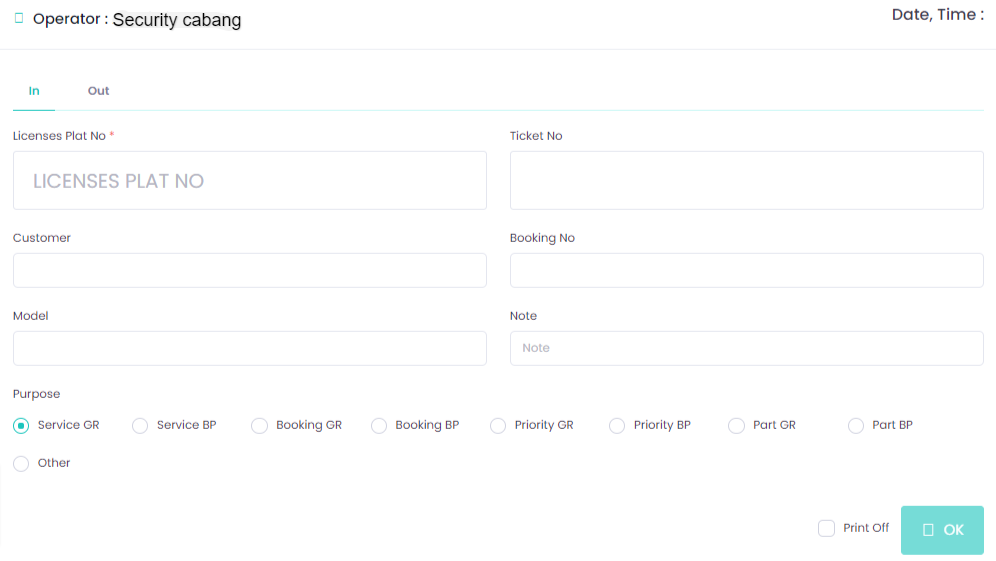
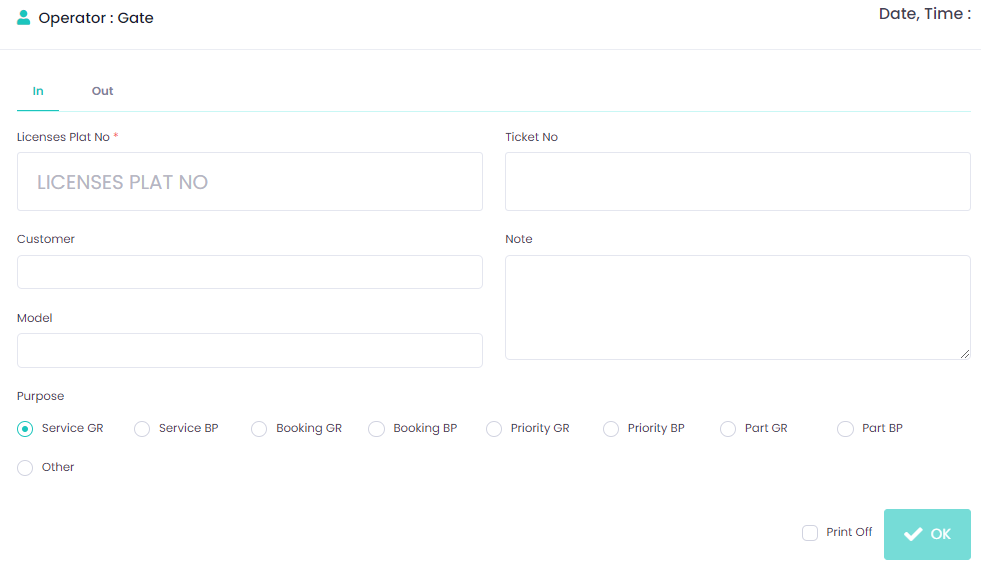
first-commit

diff --git a/docs/general-repair/security-gate/security-gate.md b/docs/general-repair/security-gate/security-gate.md
@@ -5,7 +5,7 @@ title: Security Gate
 tags: [security, nomor antrian, antrian customer]
 ---
 
-### Security Gate
+### **Security Gate**
 
 > Customer yang telah booking atau pun walk-in ke cabang untuk service akan di input nomor plat kendaraannya di bagian security. lalu data nomor kendaraan yang telah dimasukkan akan secara otomatis masuk ke dalam monitor sistem antrian di ruangan penerimaan service.
 
@@ -23,8 +23,84 @@ tags: [security, nomor antrian, antrian customer]
 | Note | Diisi dengan catatan customer jika diperlukan |
 | Purpose | Berisi pilihan tujuan kedatangan customer ke bengkel. Jika customer sudah booking service sebelumnya, pilihan Booking akan terisi otomatis. |
 | Print Off | Aktifkan opsi ini jika printer sedang mengalami masalah, tiket dapat dicetak kembali di bagian SA. |
-| OK | Tekan tombol ini jika tiket telah dicetak dan customer siap masuk ke area service |
+| ![Docusaurus Plushie](/img/general-repair/security-gate/ok.png) | Tekan tombol ini jika tiket telah dicetak dan customer siap masuk ke area service |
 
-Setelah security selesai menginput data plat nomor kendaraan, maka otomatis diarahkan untuk mencetat tiket antrian :
+untuk memulai input data unit kendaraan yang datang pada inputan **License Plate No** masukkan nomor plat kendaraan lalu tekan *Enter*, lihat gambar di bawah ini.
+
+![Docusaurus Plushie](/img/general-repair/security-gate/3.png)
+
+jika unit kendaraan yang datang sebelumnya belum pernah servis maka inputan **Customer** dan **Model** tidak terisi, sedangkan jika sudah pernah datang servis maka otomatis inputan tersebut akan terisi dan jangan lupa pilihan purpose nya, perhatikan gambar di bawah ini.
+
+![Docusaurus Plushie](/img/general-repair/security-gate/4.png)
+
+| Nama Purpose | Deskripsi |
+|--------|--------|
+| Service GR | Tujuan servis untuk General Repair |
+| Service BP | Tujuan servis untuk Body Painting |
+| Booking GR | Kustomer telah booking melalui MRA untuk General Repair |
+| Booking BP | Kustomer telah booking melalui MRA untuk Body Painting |
+| Priority GR | Khusus kustomer prioritas atau tamu penting tujuan General Repair	|
+| Priority BP | Khusus kustomer prioritas atau tamu penting tujuan Body Painting|
+| Part GR | Kustomer hanya datang beli spareparts untuk General Repair	|
+| Part BP |	Kustomer hanya datang beli spareparts untuk Body Painting |
+| other	| Kustomer dengan tujuan lain |
+
+Setelah security selesai menginput data plat nomor kendaraan, klik button ![Docusaurus Plushie](/img/general-repair/security-gate/ok.png) pada bagian kanan bawah, maka otomatis diarahkan untuk mencetat tiket antrian :
 
 ![Docusaurus Plushie](/img/general-repair/security-gate/2.png)
+
+### **Reception & Dashboard Queue**.
+
+Aplikasi Dashboard Antrian sebaiknya dipasang dalam sebuah PC dengan layar monitor berukuran minimum 32” dan disarankan untuk menggunakan pengeras suara jika ruang tunggu service berukuran luas atau dengan tingkat kebisingan sedang. Aplikasi ini menampilkan daftar antrian aktif yang dapat dilihat langsung oleh Customer dan menghasilkan suara panggilan ketika Service Advisor melakukan aksi ![Docusaurus Plushie](/img/general-repair/reception/next.png). 
+
+Berikut adalah tampilan Dashboard Antrian:
+
+![Docusaurus Plushie](/img/general-repair/reception/1.png)
+
+Aplikasi web DMS Service yang digunakan Service Advisor untuk memanggil antrian yang sudah teregistrasi dalam sistem, berikut adalah tampilan aplikasi web DMS Service untuk Service Advisor :
+
+![Docusaurus Plushie](/img/general-repair/reception/2.png)
+
+Berikut adalah penjelasan kolom – kolom pada list reception queue :
+
+
+| Nama Kolom | Deskripsi |
+|--------|--------|
+| Queue No | No Tiket/Antrian yang muncul pada print out tiket masuk |
+| Arrival Time | Tanggal dan Jam Customer masuk ke bengkel |
+| Vehicle Unit | Kendaraan Customer yang terdaftar dalam sistem. |
+| New Customer | Nomor Plat kendaraan untuk Customer yang belum ter-register dalam sistem, atau Customer yang nomor kendaraannya berubah dari data yang terakhir kali tercatat dalam sistem |
+| In Call | Nomor antrian yang sementara di panggil. |
+| Status | Status antrian kendaraan. |
+| Service Advisor | SA yang memanggil antrian/Customer. |
+| Branch | Cabang bengkel aktif. |
+| Visit Reason | Tujuan kedatangan Customer |
+
+Berikut adalah fungsi button action yang ada pada bagian atas tampilan :
+
+| Nama Action | Deskripsi |
+|--------|--------|
+| ![Docusaurus Plushie](/img/general-repair/reception/next.png) | Panggil antrian berikutnya. Sistem akan mencari Customer dalam antrian berdasarkan jam kedatangan. | 
+| ![Docusaurus Plushie](/img/general-repair/reception/booking.png) | Panggil antrian berikutnya khusus untuk Customer yang melakukan Booking | 
+| ![Docusaurus Plushie](/img/general-repair/reception/priority.png) | Panggil antrian berikutnya khusus untuk Customer prioritas atau tamu penting. | 
+| ![Docusaurus Plushie](/img/general-repair/reception/selected.png) | Menu ini digunakan untuk memanggil kembali data antrian yang sudah di skip sebelumnya dan hanya akan aktif jika user memilih data dengan status Skip. | 
+| ![Docusaurus Plushie](/img/general-repair/reception/recall.png) | Memanggil ulang antrian yang telah di panggil melalui tombol Call Next, Call Booking atau pun Call Priority. | 
+| ![Docusaurus Plushie](/img/general-repair/reception/skip.png) | Skip antrian aktif, digunakan jika customer tidak ada ditempat saat dipanggil. | 
+| ![Docusaurus Plushie](/img/general-repair/reception/finish.png) | Klik action ini jika Customer yang dipanggil datang ke meja SA | 
+
+<!--
+
+![Docusaurus Plushie](/img/general-repair/reception/3.png)
+
+Pada gambar di atas terdapat 3 cara untuk mencari identitas unit kendaraan, yaitu berdasarkan nomor plat, nomor rangka, dan nomor mesin, lalu klik enter atau klik button ![Docusaurus Plushie](/img/general-repair/reception/go.png).
+
+Untuk tahap di reception ada tiga (3) proses untuk memulai, yaitu:
+
+---
+
+
+
+### **Melalui Sistem Antrian** 
+Untuk tahap ini dengan menggunakan sistem antrian jika data unit kendaraan di input di bagian **Security Gate** dan **Service Advisor** tinggal memanggil antrian bisa di lihat pada bagian **[Reception](http://localhost:3000/docs/general-repair/reception/)**.
+
+-->

diff --git a/docs/general-repair/invoicing/invoicing.md b/docs/general-repair/invoicing/invoicing.md
@@ -136,7 +136,7 @@ proses ini membutuhkan approval :
 
 - Diskon 1 - 15 % : Kepala Bengkel
 - Diskon 16 - 25 % : Kepala Bengkel -> Kepala Cabang
-- Diskon 26 - 100 % : Kepala Bengkel -> Kepala Cabang -> MO (Head Office) -> GM (Head Office)
+- Diskon 26 - 100 % : Kepala Bengkel -> Kepala Cabang -> Aftersales Operation Manager (Head Office) -> Aftersales General Manager (Head Office)
 
 :::
 
